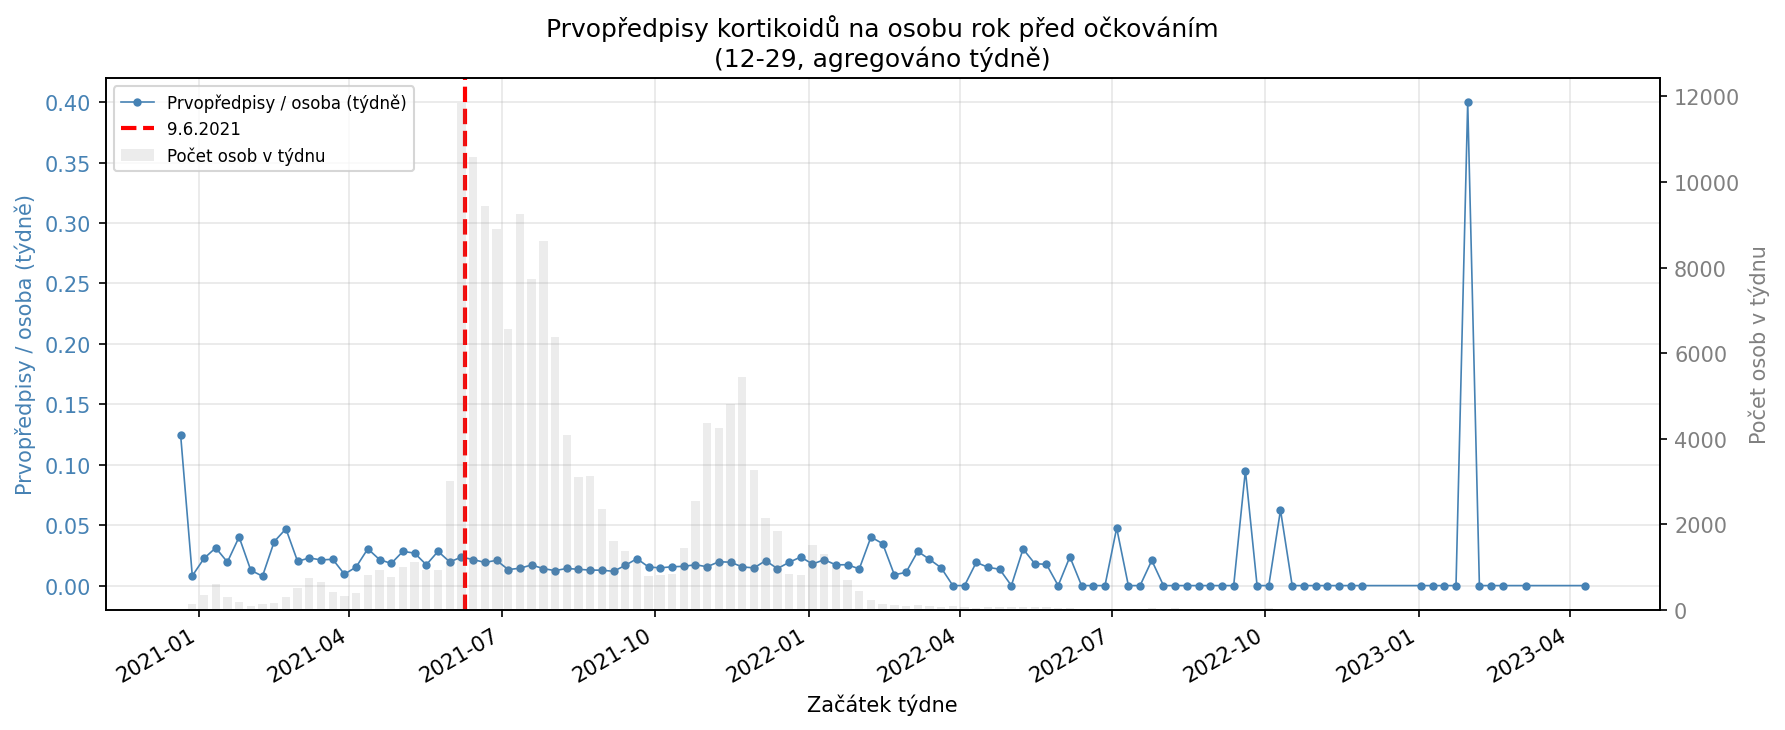
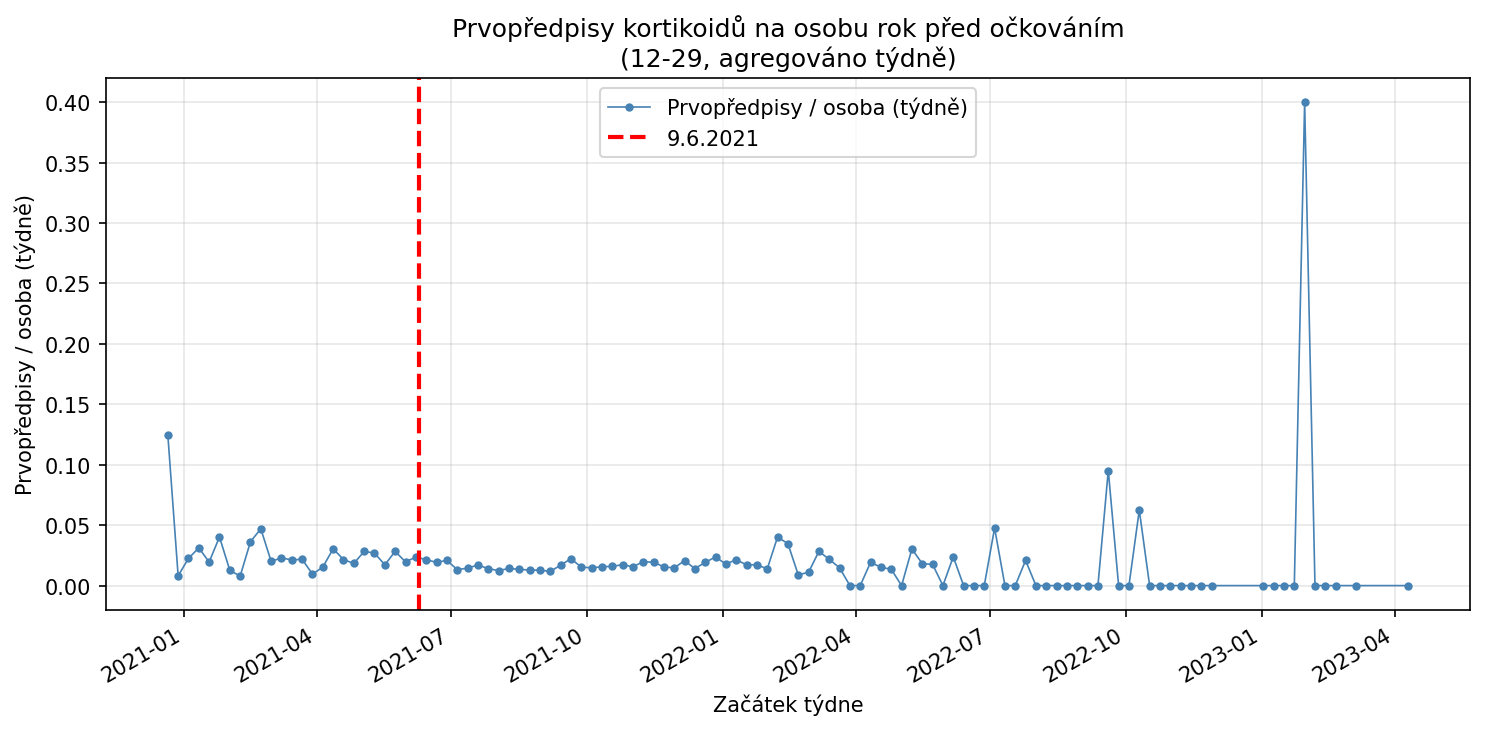
WIP

diff --git a/generate_charts.py b/generate_charts.py
@@ -138,11 +138,9 @@ def plot_chart(
 ) -> None:
     sorted_weeks = sorted(weekly_averages.keys())
     values = [weekly_averages[w] for w in sorted_weeks]
-    counts = [weekly_counts[w] for w in sorted_weeks]
 
-    fig, ax1 = plt.subplots(figsize=(12, 5))
-
-    ax1.plot(
+    fig, ax = plt.subplots(figsize=(10, 5))
+    ax.plot(
         sorted_weeks,
         values,
         marker="o",
@@ -151,35 +149,18 @@ def plot_chart(
         color="steelblue",
         label=ylabel,
     )
-    ax1.axvline(
+    ax.axvline(
         HIGHLIGHT_DATE,
         color="red",
         linestyle="--",
         linewidth=2,
         label="9.6.2021",
     )
-    ax1.set_xlabel("Začátek týdne")
-    ax1.set_ylabel(ylabel, color="steelblue")
-    ax1.tick_params(axis="y", labelcolor="steelblue")
-    ax1.grid(True, alpha=0.3)
-
-    ax2 = ax1.twinx()
-    ax2.bar(
-        sorted_weeks,
-        counts,
-        width=5,
-        alpha=0.15,
-        color="gray",
-        label="Počet osob v týdnu",
-    )
-    ax2.set_ylabel("Počet osob v týdnu", color="gray")
-    ax2.tick_params(axis="y", labelcolor="gray")
-
-    lines1, labels1 = ax1.get_legend_handles_labels()
-    lines2, labels2 = ax2.get_legend_handles_labels()
-    ax1.legend(lines1 + lines2, labels1 + labels2, loc="upper left", fontsize=8)
-
-    ax1.set_title(title)
+    ax.set_title(title)
+    ax.set_xlabel("Začátek týdne")
+    ax.set_ylabel(ylabel)
+    ax.legend()
+    ax.grid(True, alpha=0.3)
     fig.autofmt_xdate()
     plt.tight_layout()
 
